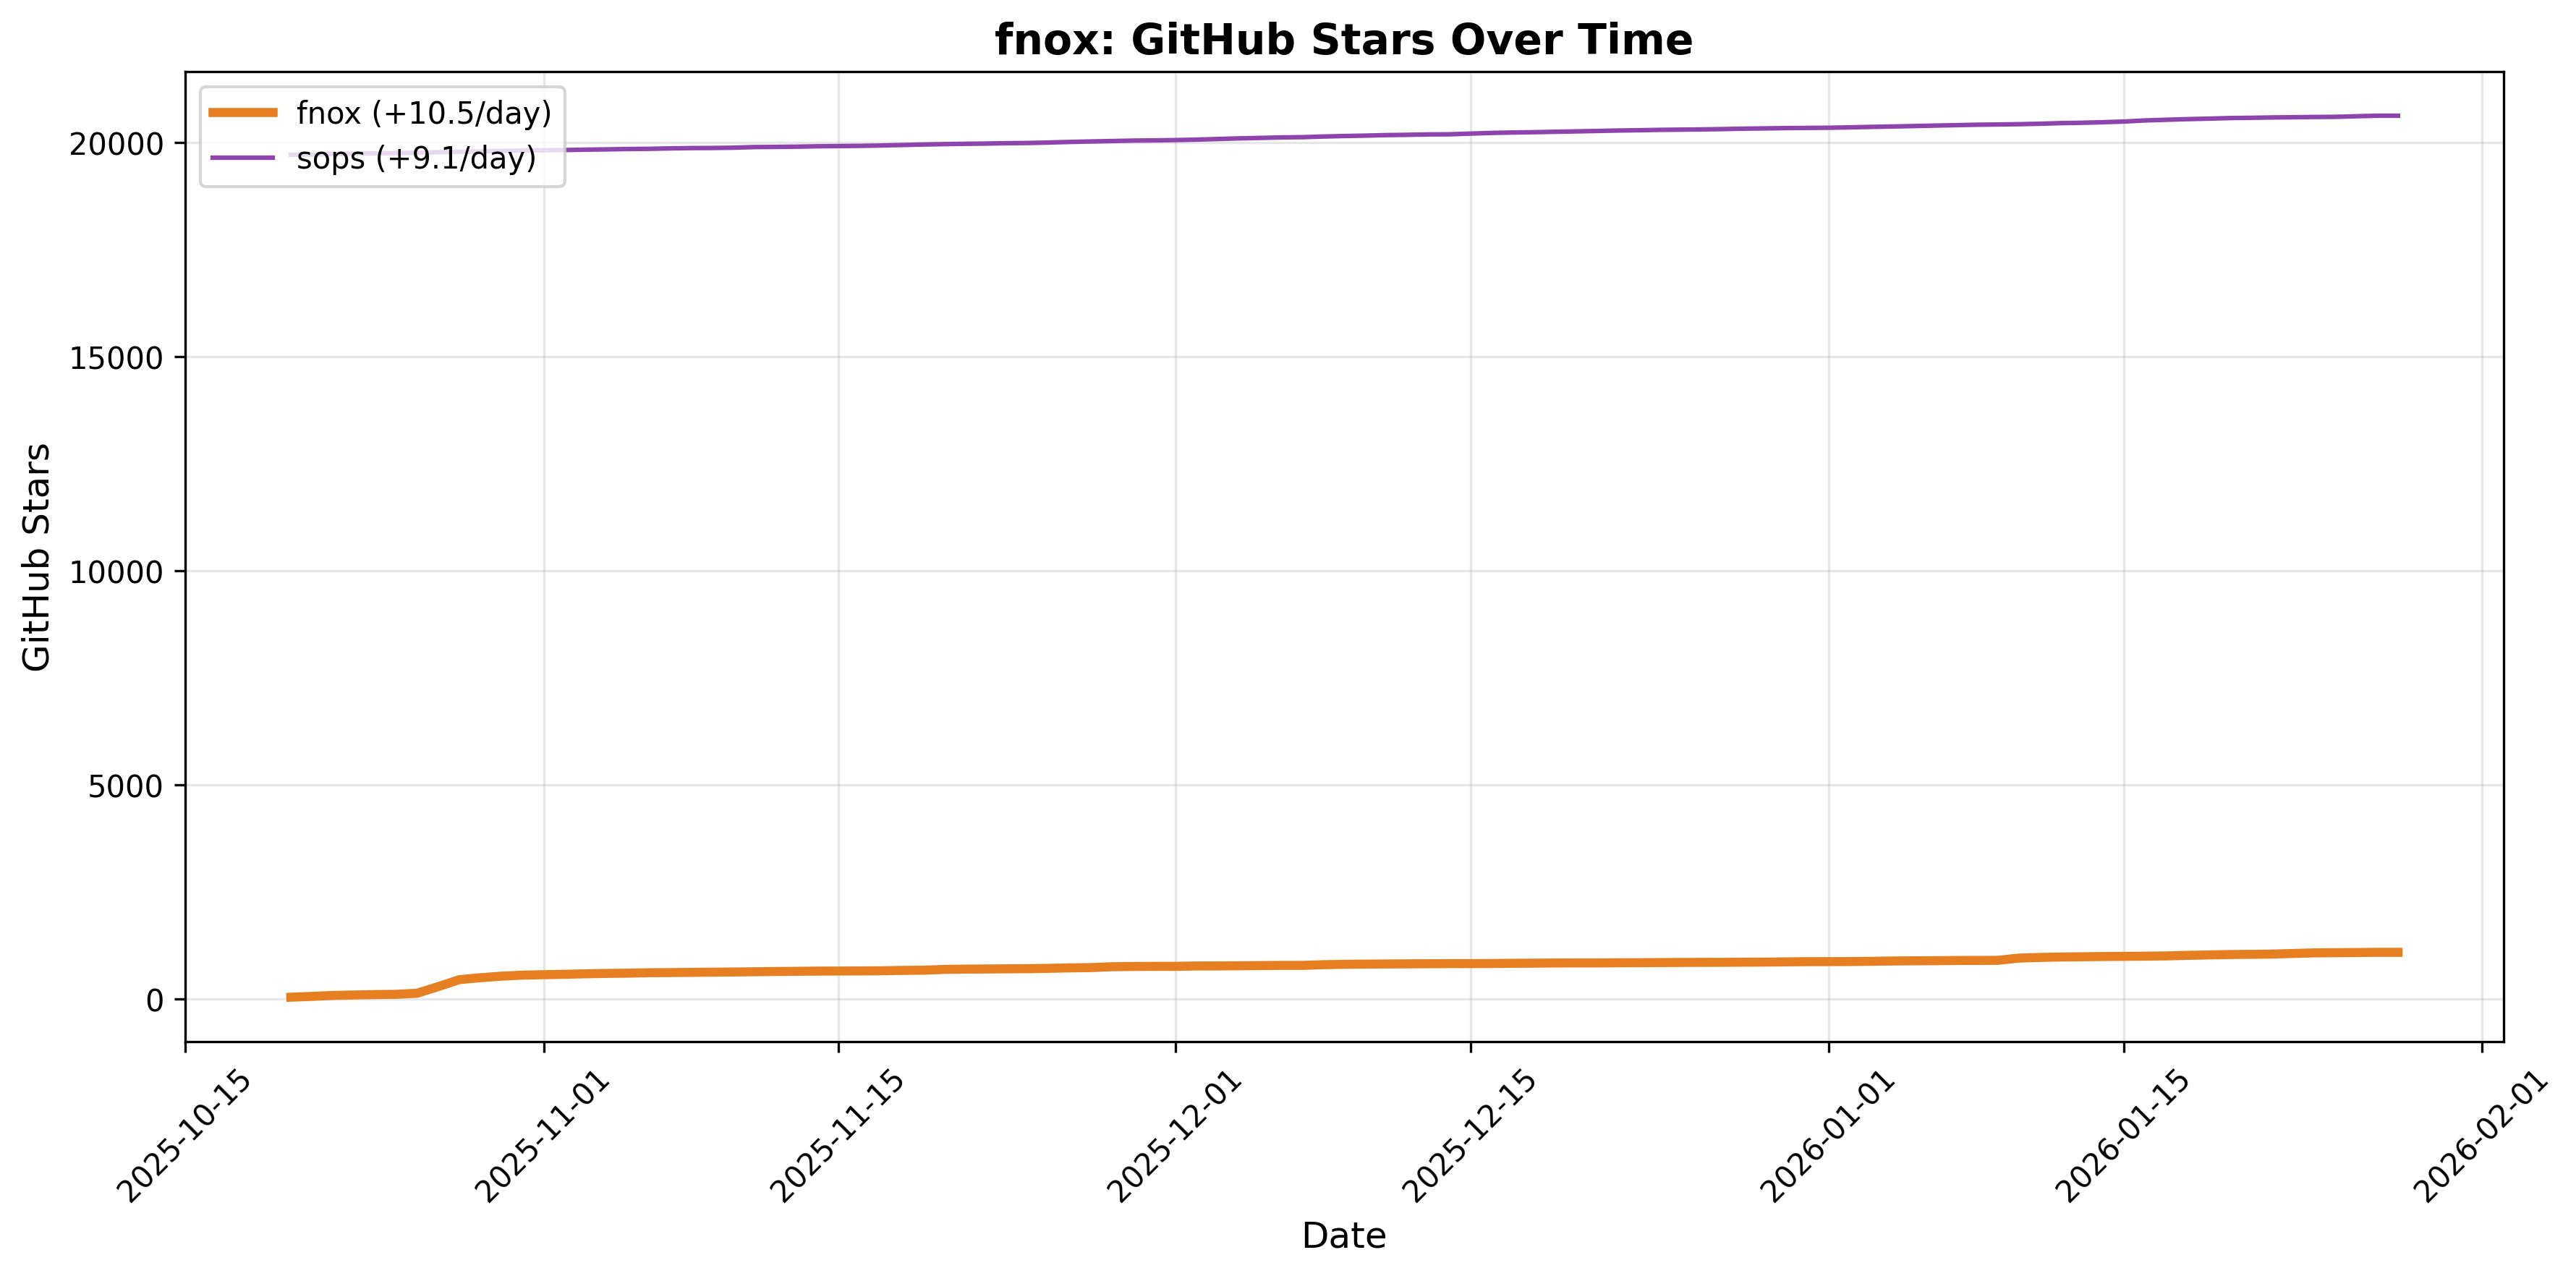
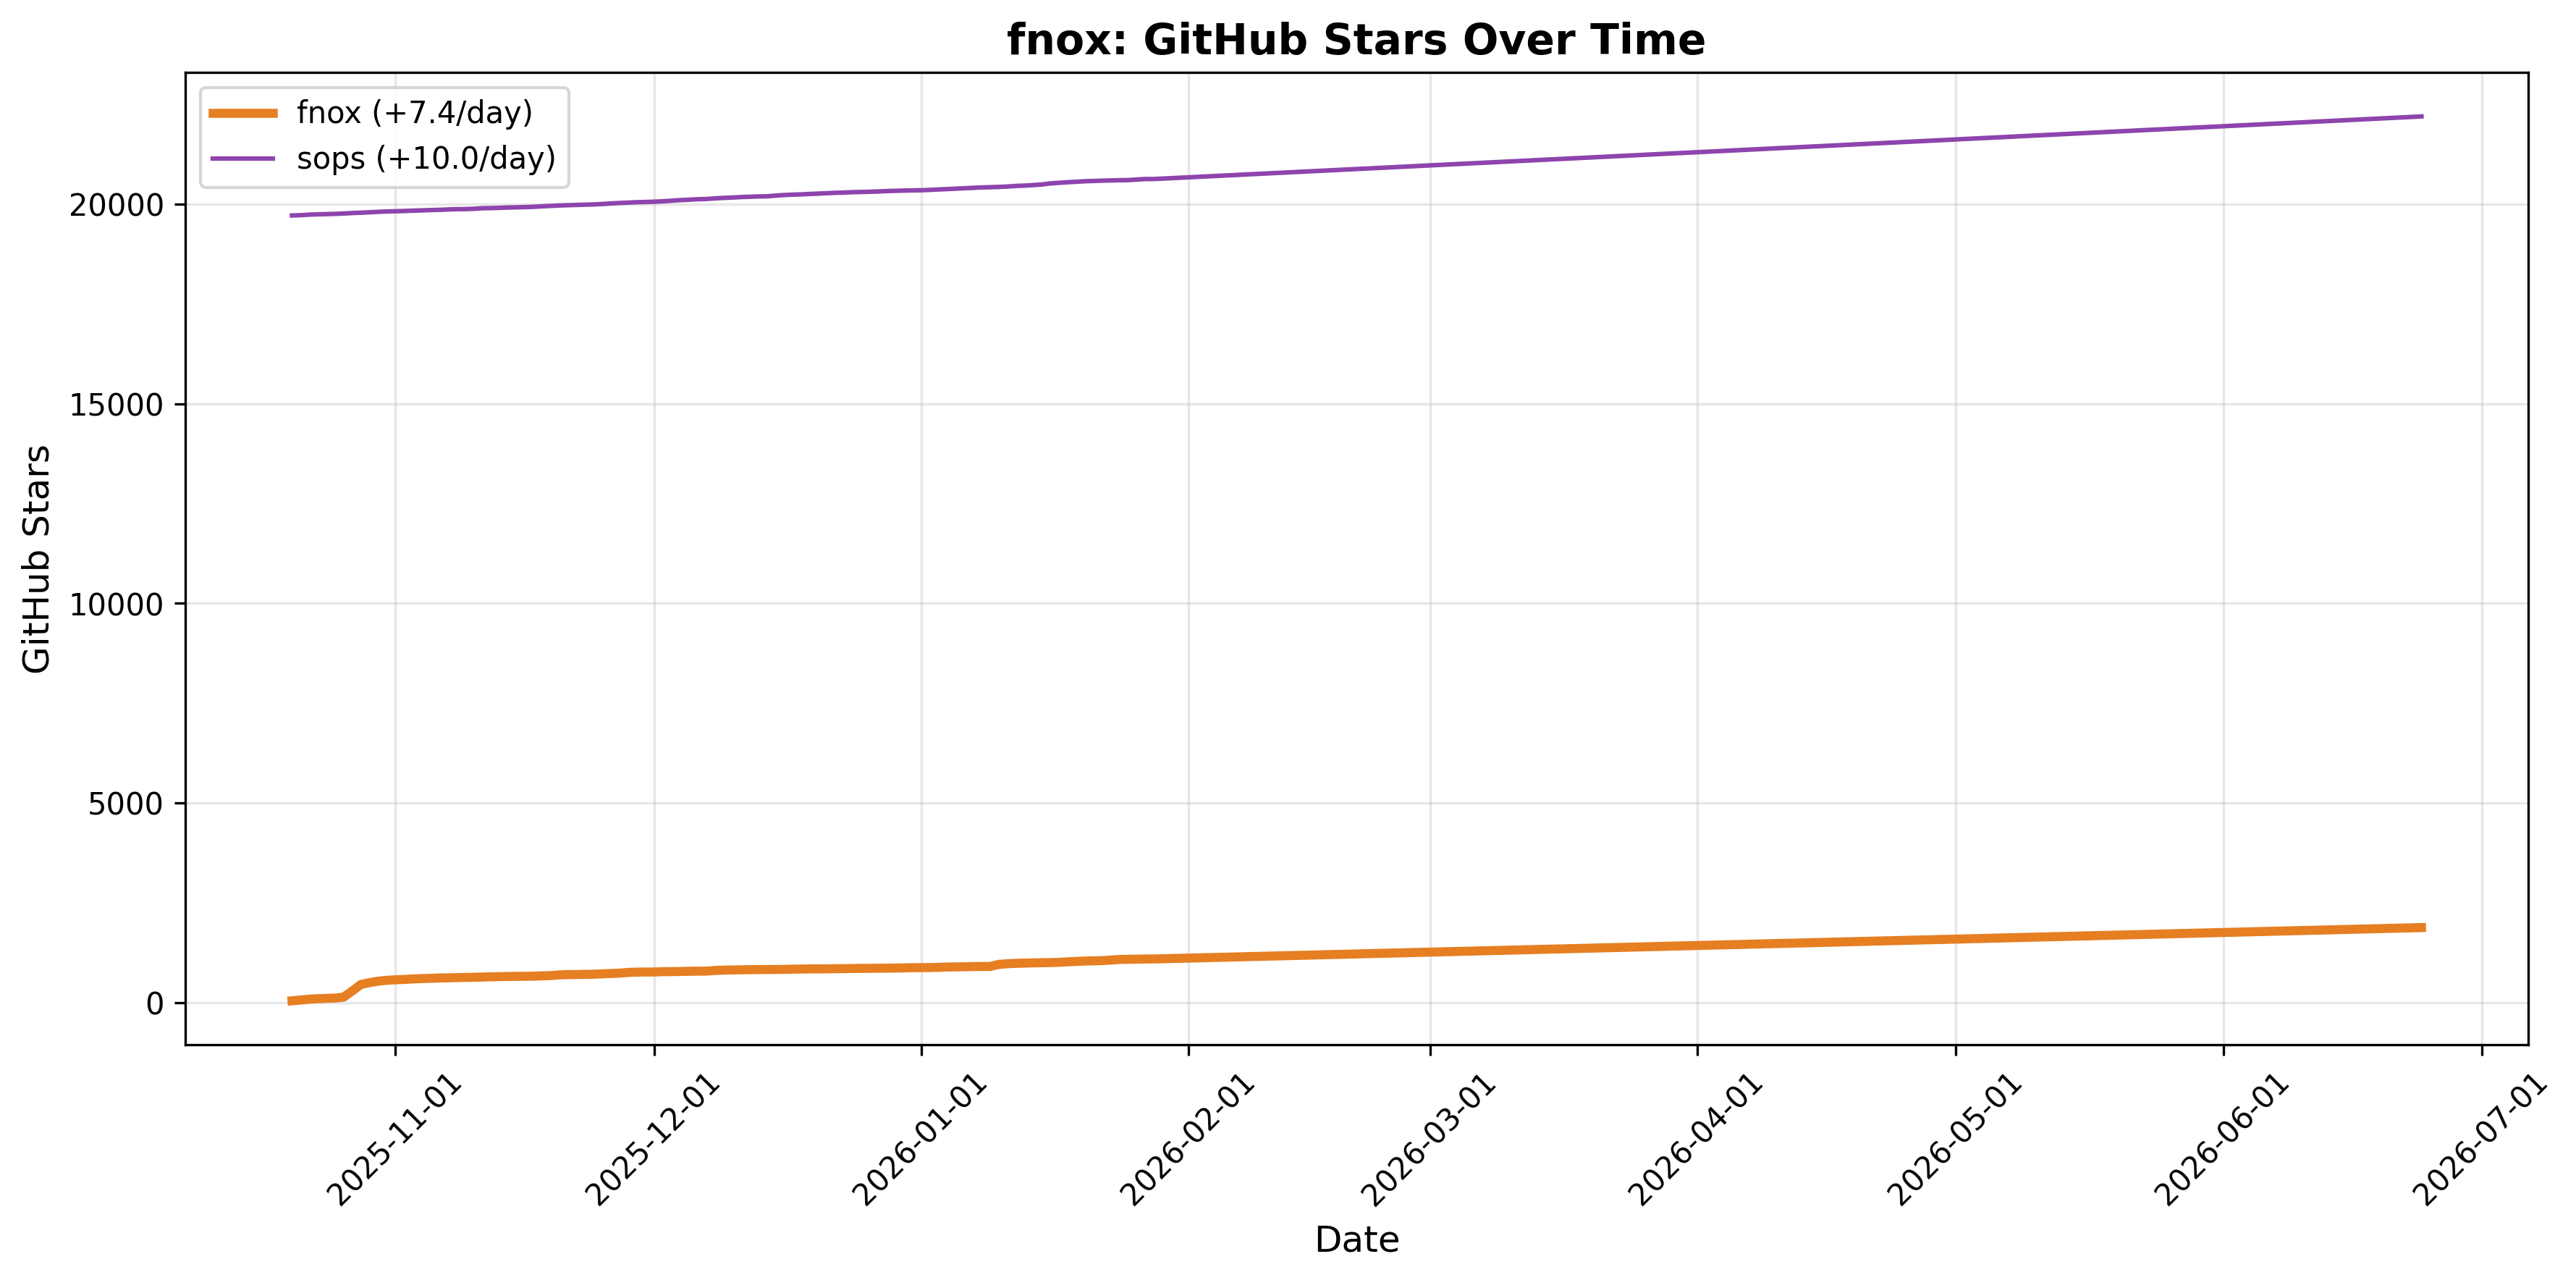
fix fnox chart automation

diff --git a/mise-tasks/plot-fnox-stats.py b/mise-tasks/plot-fnox-stats.py
@@ -5,10 +5,13 @@ import matplotlib.pyplot as plt
 from matplotlib.dates import DateFormatter
 from datetime import datetime
 import numpy as np
+from pathlib import Path
 from scipy import stats
 
+REPO_ROOT = Path(__file__).resolve().parent.parent
+
 # Read the CSV file
-df_comp = pd.read_csv('fnox-competitors.csv')
+df_comp = pd.read_csv(REPO_ROOT / 'fnox-competitors.csv')
 
 # Convert date column to datetime
 df_comp['date'] = pd.to_datetime(df_comp['date'])
@@ -76,8 +79,12 @@ for name, info in active_competitors.items():
 def predict_crossing(df_comp, tool, days=30):
     cutoff_date = df_comp['date'].max() - pd.Timedelta(days=days)
     recent_data = df_comp[df_comp['date'] >= cutoff_date].copy()
+    if len(recent_data) < 2:
+        return None
 
     x = (recent_data['date'] - recent_data['date'].min()).dt.days
+    if x.nunique() < 2:
+        return None
 
     fnox_slope, _, _, _, _ = stats.linregress(x, recent_data['fnox_stars'])
     tool_slope, _, _, _, _ = stats.linregress(x, recent_data[f'{tool}_stars'])
@@ -165,4 +172,4 @@ ax.legend(lines, labels, loc='upper left')
 plt.tight_layout()
 
 # Save the plot
-plt.savefig('charts/fnox_stats.png', dpi=300, bbox_inches='tight')
+plt.savefig(REPO_ROOT / 'charts' / 'fnox_stats.png', dpi=300, bbox_inches='tight')